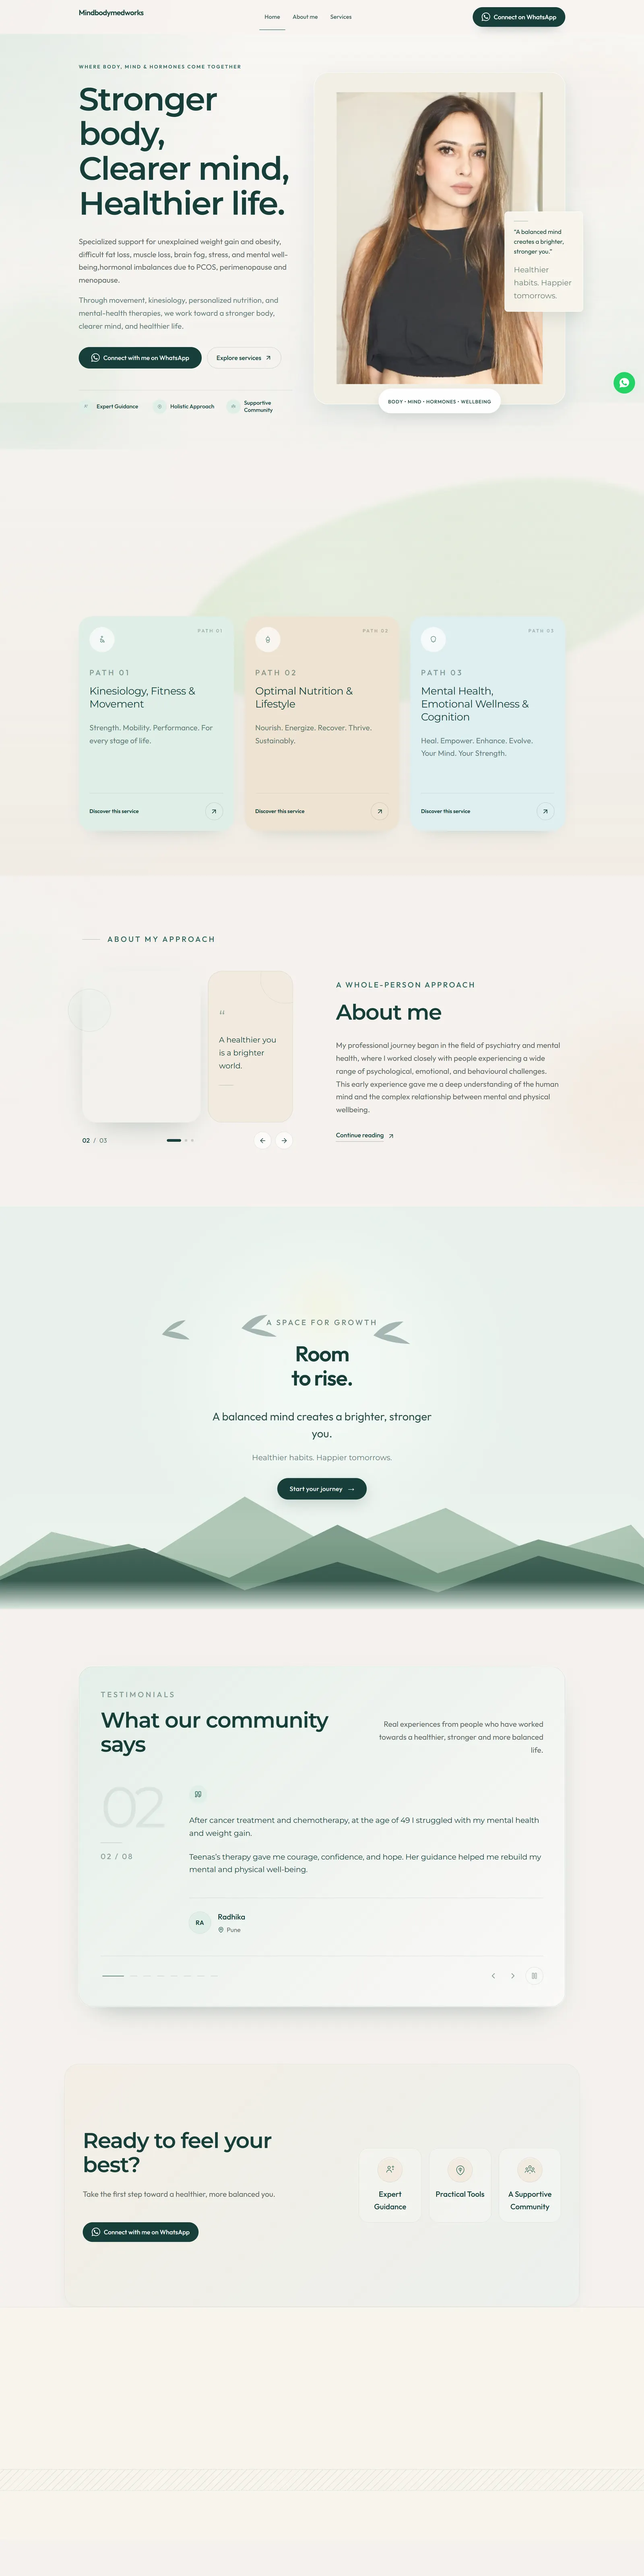
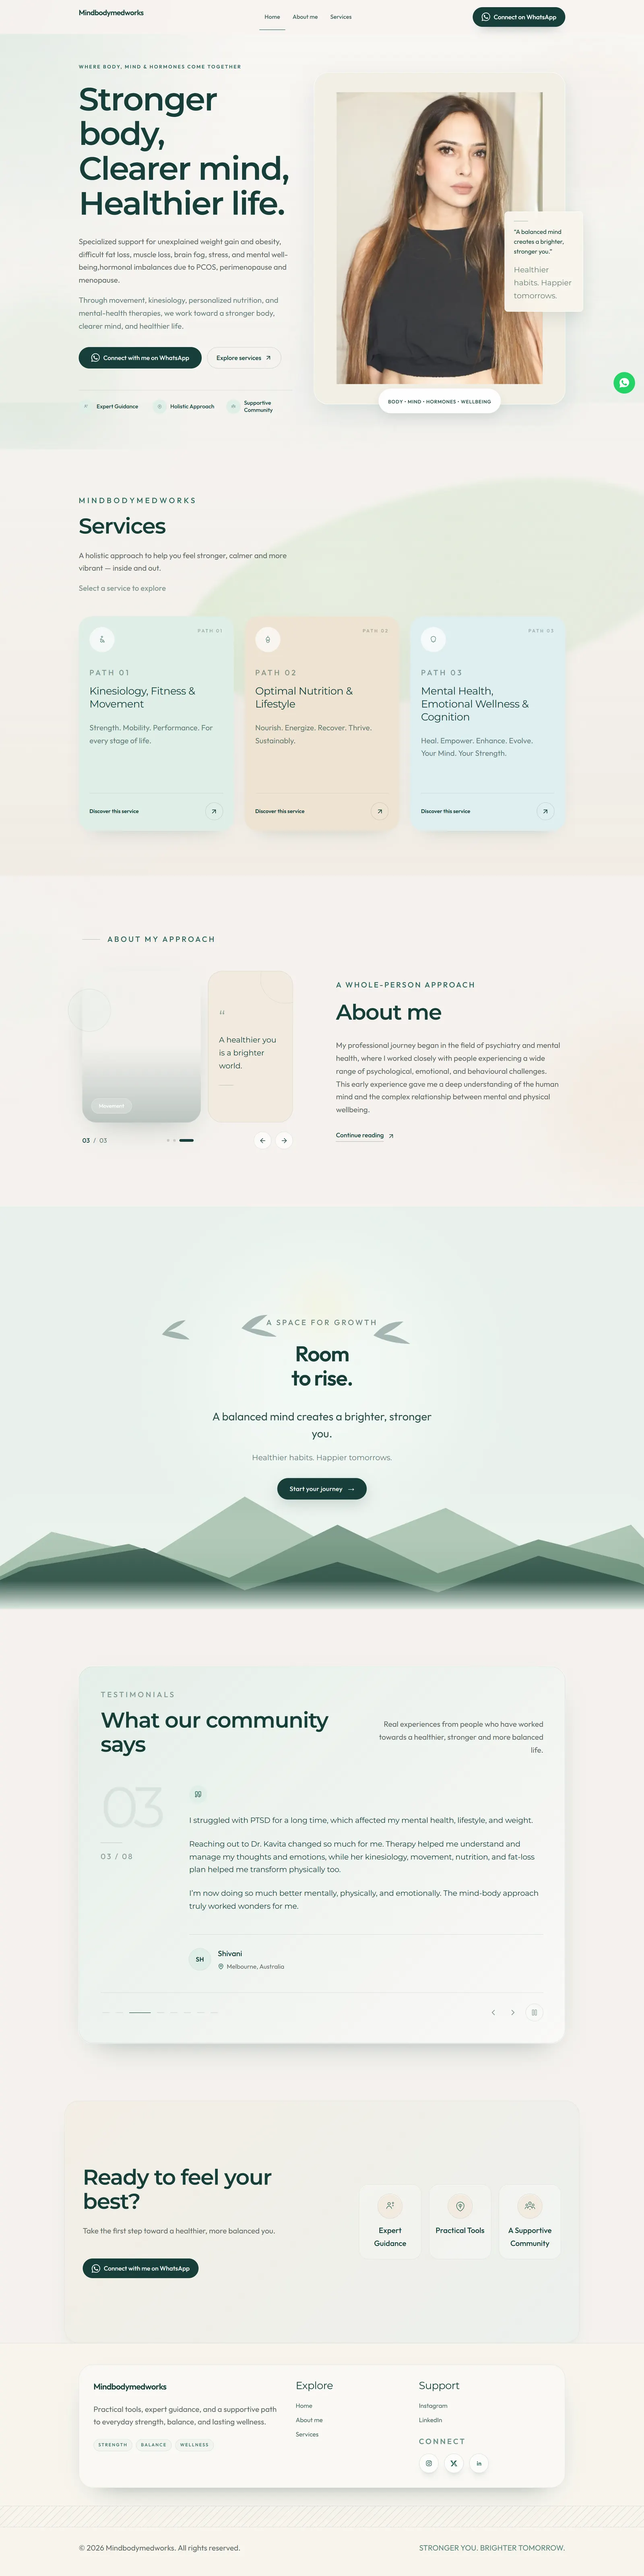
fix(showcase): end scroll on the last frame and tighten case layout
- Recalculate SCROLL_END for the 16:10 frame over the new 1:4 screenshot
- Pin the browser frame near the top instead of vertically centred
- Smaller, wrapping client names; less space before the open-slot link
- Replace the MindBodyMedWorks full-page screenshot

diff --git a/frontend/src/components/showcase-section.tsx b/frontend/src/components/showcase-section.tsx
@@ -7,8 +7,8 @@ import { ArrowRight, ArrowUpRight } from "lucide-react";
 import { motion, useReducedMotion, useScroll, useTransform } from "framer-motion";
 import { showcaseProjects, type ShowcaseProject } from "@/lib/showcase";
 
-// The screenshot stops before the page's footer whitespace (~74% of its height)
-const SCROLL_END = "-74%";
+// Frame is 16:10 over a 1:4 screenshot, so the last frame sits at 1 - 0.625/4 of its height
+const SCROLL_END = "-84.375%";
 
 /** A browser window whose page scrolls as you scroll ours — the site, shown as it really is. */
 function BrowserFrame({ project, pinned }: { project: ShowcaseProject; pinned: boolean }) {
@@ -51,7 +51,7 @@ function BrowserFrame({ project, pinned }: { project: ShowcaseProject; pinned: b
 
   return (
     <div ref={trackRef} className="relative h-[260vh]">
-      <div className="sticky top-0 flex h-screen items-center">{frame}</div>
+      <div className="sticky top-0 flex h-screen items-start pt-28">{frame}</div>
     </div>
   );
 }
@@ -85,7 +85,7 @@ function Project({ project, index }: { project: ShowcaseProject; index: number }
             <p className="eyebrow">
               <span className="text-[#BF5AF2]">Case {String(index + 1).padStart(2, "0")}&nbsp;&nbsp;</span>Live website
             </p>
-            <h2 className="mt-6 font-heading text-[clamp(2.5rem,5vw,4.25rem)] font-semibold leading-[0.95] tracking-[-0.045em] text-[#F5F5F7] [overflow-wrap:anywhere]">
+            <h2 className="mt-6 font-heading text-[clamp(2.25rem,9vw,3.5rem)] lg:text-[clamp(2.25rem,3.3vw,3.25rem)] font-semibold leading-[0.95] tracking-[-0.045em] text-[#F5F5F7] break-words">
               {project.client}
             </h2>
             <p className="mt-5 max-w-[34ch] text-lg leading-snug text-[#F5F5F7]/90">{project.line}</p>
@@ -135,7 +135,7 @@ export default function ShowcaseSection() {
       ))}
 
       {/* The open slot — the page closes on the next case, not a generic banner */}
-      <div className="container-wide mt-32 lg:mt-44">
+      <div className="container-wide mt-24 lg:mt-32">
         <Link
           href="/booking"
           className="group grid gap-6 border-y border-white/[0.08] py-12 transition-colors hover:border-[#BF5AF2]/50 md:grid-cols-12 md:items-end md:gap-x-8 md:py-16"
